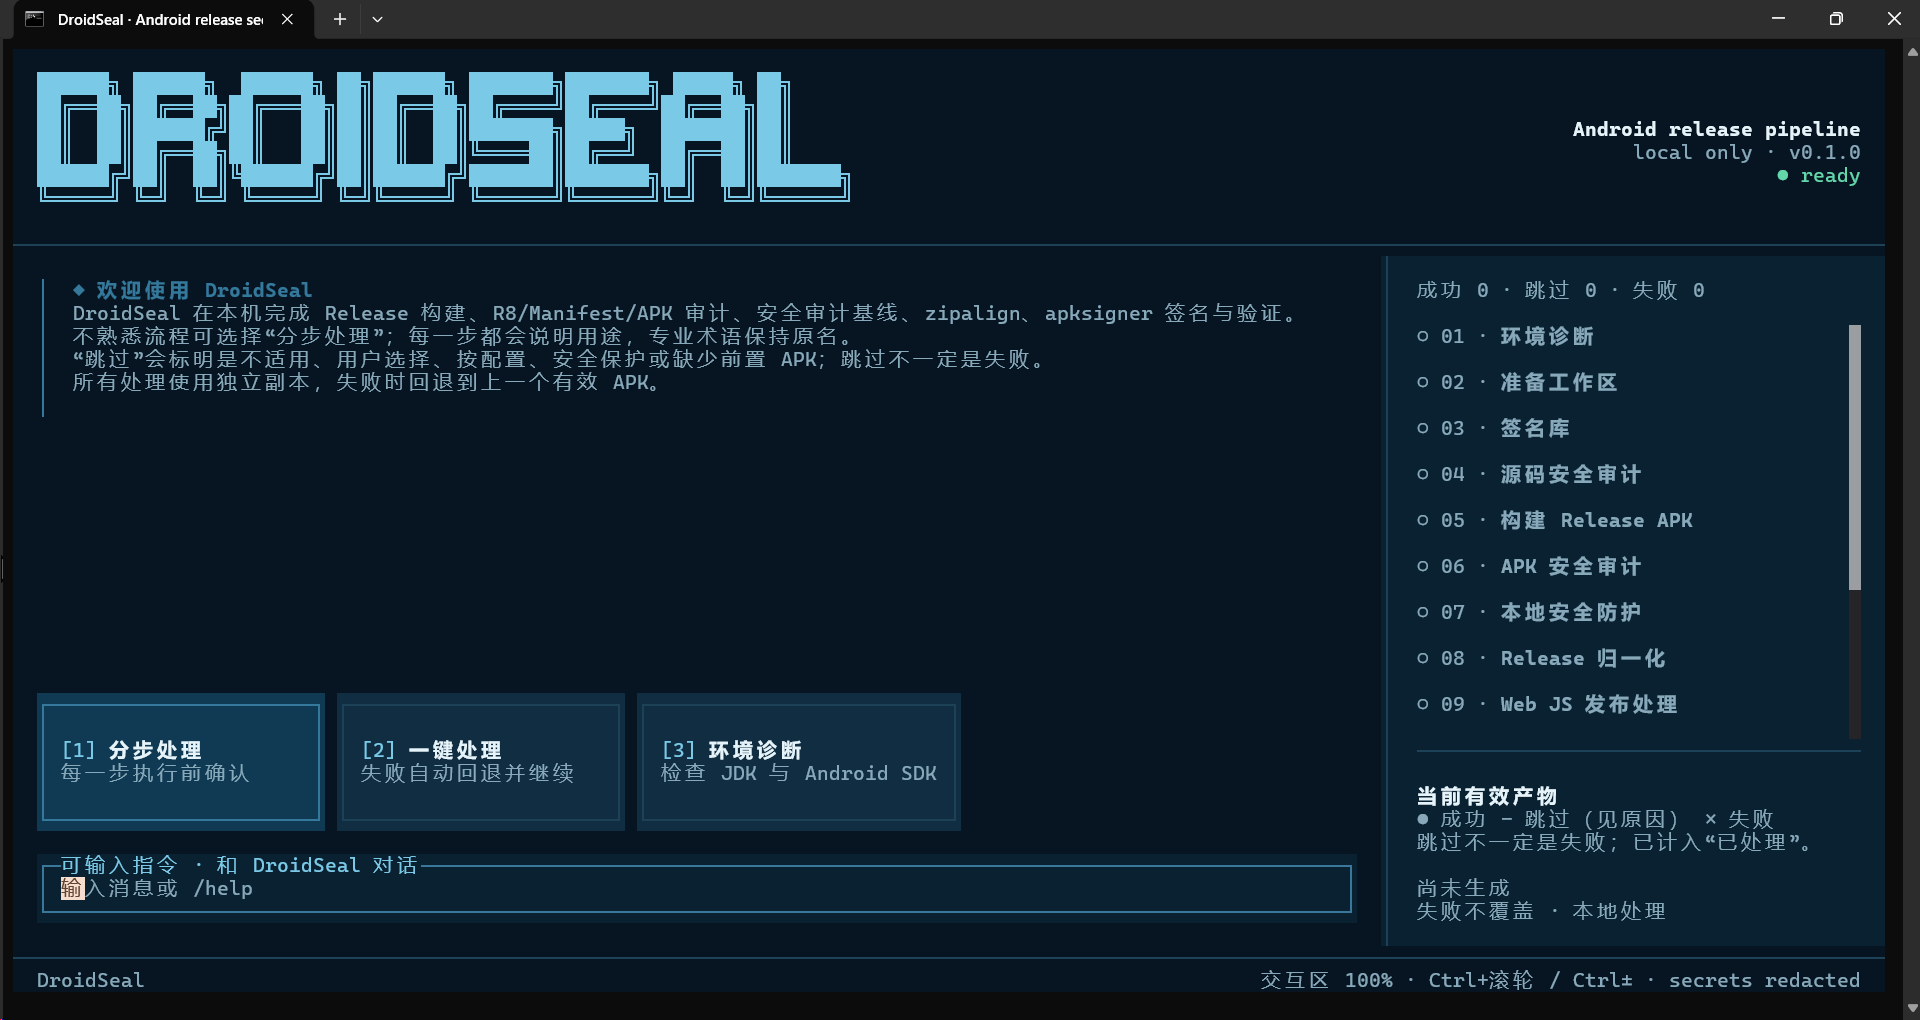
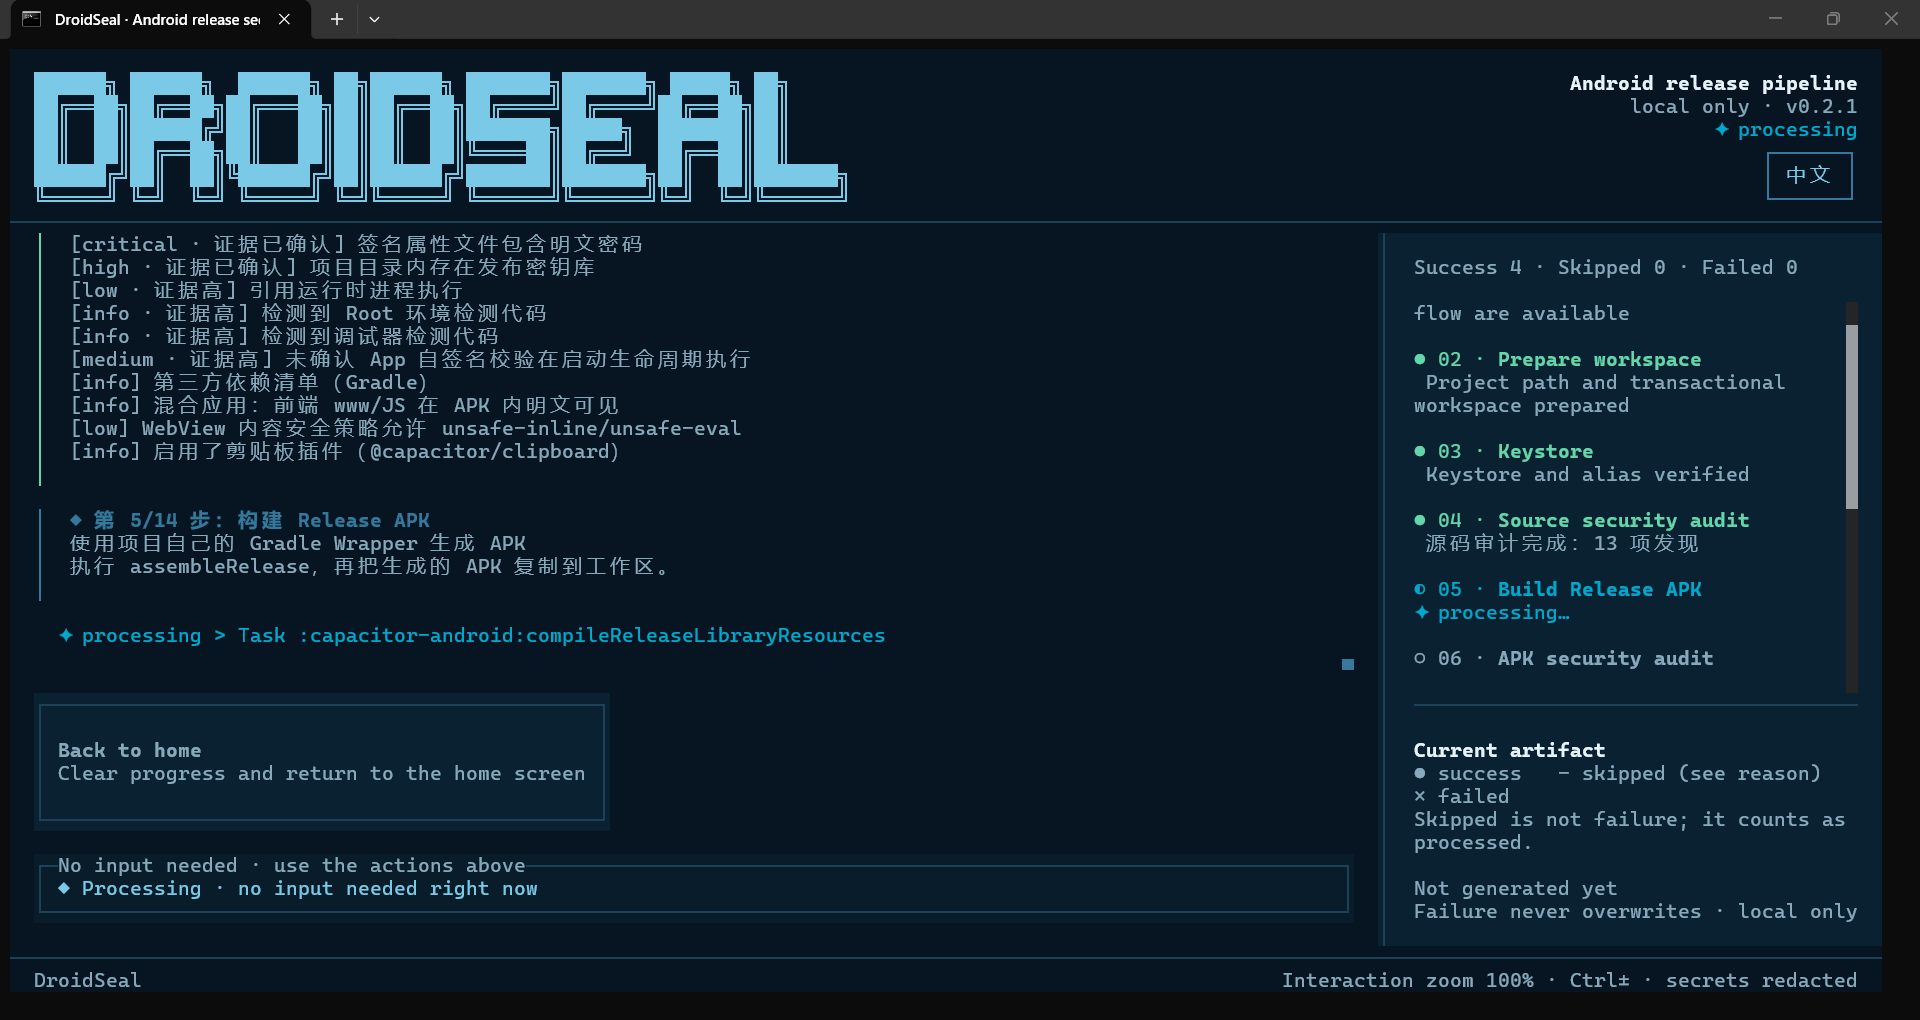
feat: single demo, new tagline and refreshed screenshot
Change the hero tagline to the release-seal pitch, drop the three mode
pills in favor of one sidebar-faithful 14-step terminal demo placed
below the screenshot, and swap the screenshot for the GitHub one.

diff --git a/index.html b/index.html
@@ -304,26 +304,20 @@
     <!-- HERO -->
     <section class="hero wrap">
       <span class="eyebrow" data-reveal><span class="dot"></span>安卓发布封签 · v1.0.0</span>
-      <h1 data-reveal>像聊天一样，跑完 <span class="grad">安卓发布加固</span></h1>
+      <h1 data-reveal>商业加固前你能做的大多数内容</h1>
       <p class="sub" data-reveal>DroidSeal（安卓发布封签）帮你完成商业加固前能做的大多数事——环境诊断、源码与 APK 审计、R8 混淆、zipalign 对齐、apksigner 签名与最终验证，商业加固前 · 一键端到端。</p>
       <div class="hero-cta" data-reveal>
         <a href="#cta" class="btn btn-primary magnetic" data-cursor>开始使用</a>
         <a href="#pipeline" class="btn btn-ghost" data-cursor>查看管线</a>
       </div>
 
+      <div class="hero-shot-wrap" data-reveal>
+        <img class="hero-shot" src="./screenshot.png" alt="DroidSeal 终端运行截图" />
+      </div>
+
       <div class="terminal" data-reveal data-cursor>
         <div class="bar"><i class="r"></i><i class="y"></i><i class="g"></i><span class="name">droidseal — zsh</span></div>
         <div class="body" id="termBody"></div>
-      </div>
-
-      <div class="pills" data-reveal>
-        <button class="pill active" data-mode="guided" data-cursor><span class="k">1</span>分步处理</button>
-        <button class="pill" data-mode="oneclick" data-cursor><span class="k">2</span>一键处理</button>
-        <button class="pill" data-mode="doctor" data-cursor><span class="k">3</span>环境诊断</button>
-      </div>
-
-      <div class="hero-shot-wrap" data-reveal>
-        <img class="hero-shot" src="./screenshot.png" alt="DroidSeal 终端运行截图" />
       </div>
     </section>
 
@@ -567,70 +561,27 @@
 
   /* ============ terminal typing ============ */
   var termBody = document.getElementById('termBody');
-  var MODES = {
-    guided: { cmd:'/guided', out:[
-      ['c-dim','→ 分步向导 · 逐个确认，可跳过'],
-      ['c-prompt','? [01] 环境诊断        执行? y'],
-      ['c-ok','[01] 环境诊断 ............ ok'],
-      ['c-prompt','? [02] 准备工作区      执行? y'],
-      ['c-ok','[02] 准备工作区 .......... ok'],
-      ['c-prompt','? [03] 签名库          执行? y'],
-      ['c-ok','[03] 签名库 .............. ok'],
-      ['c-prompt','? [04] 源码安全审计    执行? y'],
-      ['c-ok','[04] 源码安全审计 ........ ok'],
-      ['c-prompt','? [05] 构建 Release APK 执行? y'],
-      ['c-ok','[05] 构建 Release APK .... ok'],
-      ['c-prompt','? [06] APK 安全审计    执行? y'],
-      ['c-ok','[06] APK 安全审计 ........ ok'],
-      ['c-prompt','? [07] 本地安全防护    执行? y'],
-      ['c-ok','[07] 本地安全防护 ........ ok'],
-      ['c-prompt','? [08] Release 归一化  执行? y'],
-      ['c-ok','[08] Release 归一化 ...... ok'],
-      ['c-prompt','? [09] Web JS 发布处理  执行? n'],
-      ['c-dim','[09] Web JS 发布处理 .... 跳过（可选）'],
-      ['c-prompt','? [10] 资源名混淆      执行? n'],
-      ['c-dim','[10] 资源名混淆 ......... 跳过（可选）'],
-      ['c-prompt','? [11] ZIP 对齐        执行? y'],
-      ['c-ok','[11] ZIP 对齐 ............ ok'],
-      ['c-prompt','? [12] APK 签名        执行? y'],
-      ['c-ok','[12] APK 签名 ............ ok'],
-      ['c-prompt','? [13] 最终验证        执行? y'],
-      ['c-ok','[13] 最终验证 ............ ok'],
-      ['c-prompt','? [14] 生成报告        执行? y'],
-      ['c-ok','[14] 生成报告 ............ ok'],
-      ['c-cyan','› 最终 APK 与审计报告已生成']
-    ]},
-    oneclick: { cmd:'/oneclick', out:[
-      ['c-dim','→ 一键向导 · 14 步连续执行'],
-      ['c-ok','[01] 环境诊断 ............ ok'],
-      ['c-ok','[02] 准备工作区 .......... ok'],
-      ['c-ok','[03] 签名库 .............. ok'],
-      ['c-ok','[04] 源码安全审计 ........ ok'],
-      ['c-ok','[05] 构建 Release APK .... ok'],
-      ['c-ok','[06] APK 安全审计 ........ ok'],
-      ['c-ok','[07] 本地安全防护 ........ ok'],
-      ['c-ok','[08] Release 归一化 ...... ok'],
-      ['c-dim','[09] Web JS 发布处理 .... 跳过（可选）'],
-      ['c-dim','[10] 资源名混淆 ......... 跳过（可选）'],
-      ['c-ok','[11] ZIP 对齐 ............ ok'],
-      ['c-ok','[12] APK 签名 ............ ok'],
-      ['c-ok','[13] 最终验证 ............ ok'],
-      ['c-ok','[14] 生成报告 ............ ok'],
-      ['c-cyan','› 最终 APK 与审计报告已生成']
-    ]},
-    doctor: { cmd:'/doctor', out:[
-      ['c-dim','→ 环境诊断 · 只检查，不改包'],
-      ['c-ok','[✓] JDK 17 · keytool'],
-      ['c-ok','[✓] Android SDK 已定位'],
-      ['c-warn','[!] zipalign · apksigner 缺失（Build Tools）'],
-      ['c-dim','    → sdkmanager 可一键补全'],
-      ['c-cyan','› 缺失项已列出，可“下载并继续”']
-    ]}
-  };
-  var curMode = 'guided';
+  var DEMO = { cmd:'/oneclick', out:[
+    ['c-dim','→ 一键端到端 · 14 步连续执行'],
+    ['c-ok','[01] 环境诊断 ............ ok'],
+    ['c-ok','[02] 准备工作区 .......... ok'],
+    ['c-ok','[03] 签名库 .............. ok'],
+    ['c-ok','[04] 源码安全审计 ........ ok'],
+    ['c-ok','[05] 构建 Release APK .... ok'],
+    ['c-ok','[06] APK 安全审计 ........ ok'],
+    ['c-ok','[07] 本地安全防护 ........ ok'],
+    ['c-ok','[08] Release 归一化 ...... ok'],
+    ['c-dim','[09] Web JS 发布处理 .... 跳过（可选）'],
+    ['c-dim','[10] 资源名混淆 ......... 跳过（可选）'],
+    ['c-ok','[11] ZIP 对齐 ............ ok'],
+    ['c-ok','[12] APK 签名 ............ ok'],
+    ['c-ok','[13] 最终验证 ............ ok'],
+    ['c-ok','[14] 生成报告 ............ ok'],
+    ['c-cyan','› 最终 APK 与审计报告已生成']
+  ]};
   function typeTerminal(){
     if(!termBody) return;
-    var m = MODES[curMode];
+    var m = DEMO;
     if(reduce){
       termBody.innerHTML='';
       var ph=document.createElement('div'); ph.className='line';
@@ -676,12 +627,6 @@
     step();
   }
   typeTerminal();
-  document.querySelectorAll('.pill').forEach(function(p){
-    p.addEventListener('click', function(){
-      document.querySelectorAll('.pill').forEach(function(x){x.classList.remove('active');});
-      p.classList.add('active'); curMode=p.getAttribute('data-mode'); typeTerminal();
-    });
-  });
 
   /* ============ mobile menu ============ */
   var navToggle=document.getElementById('navToggle');
